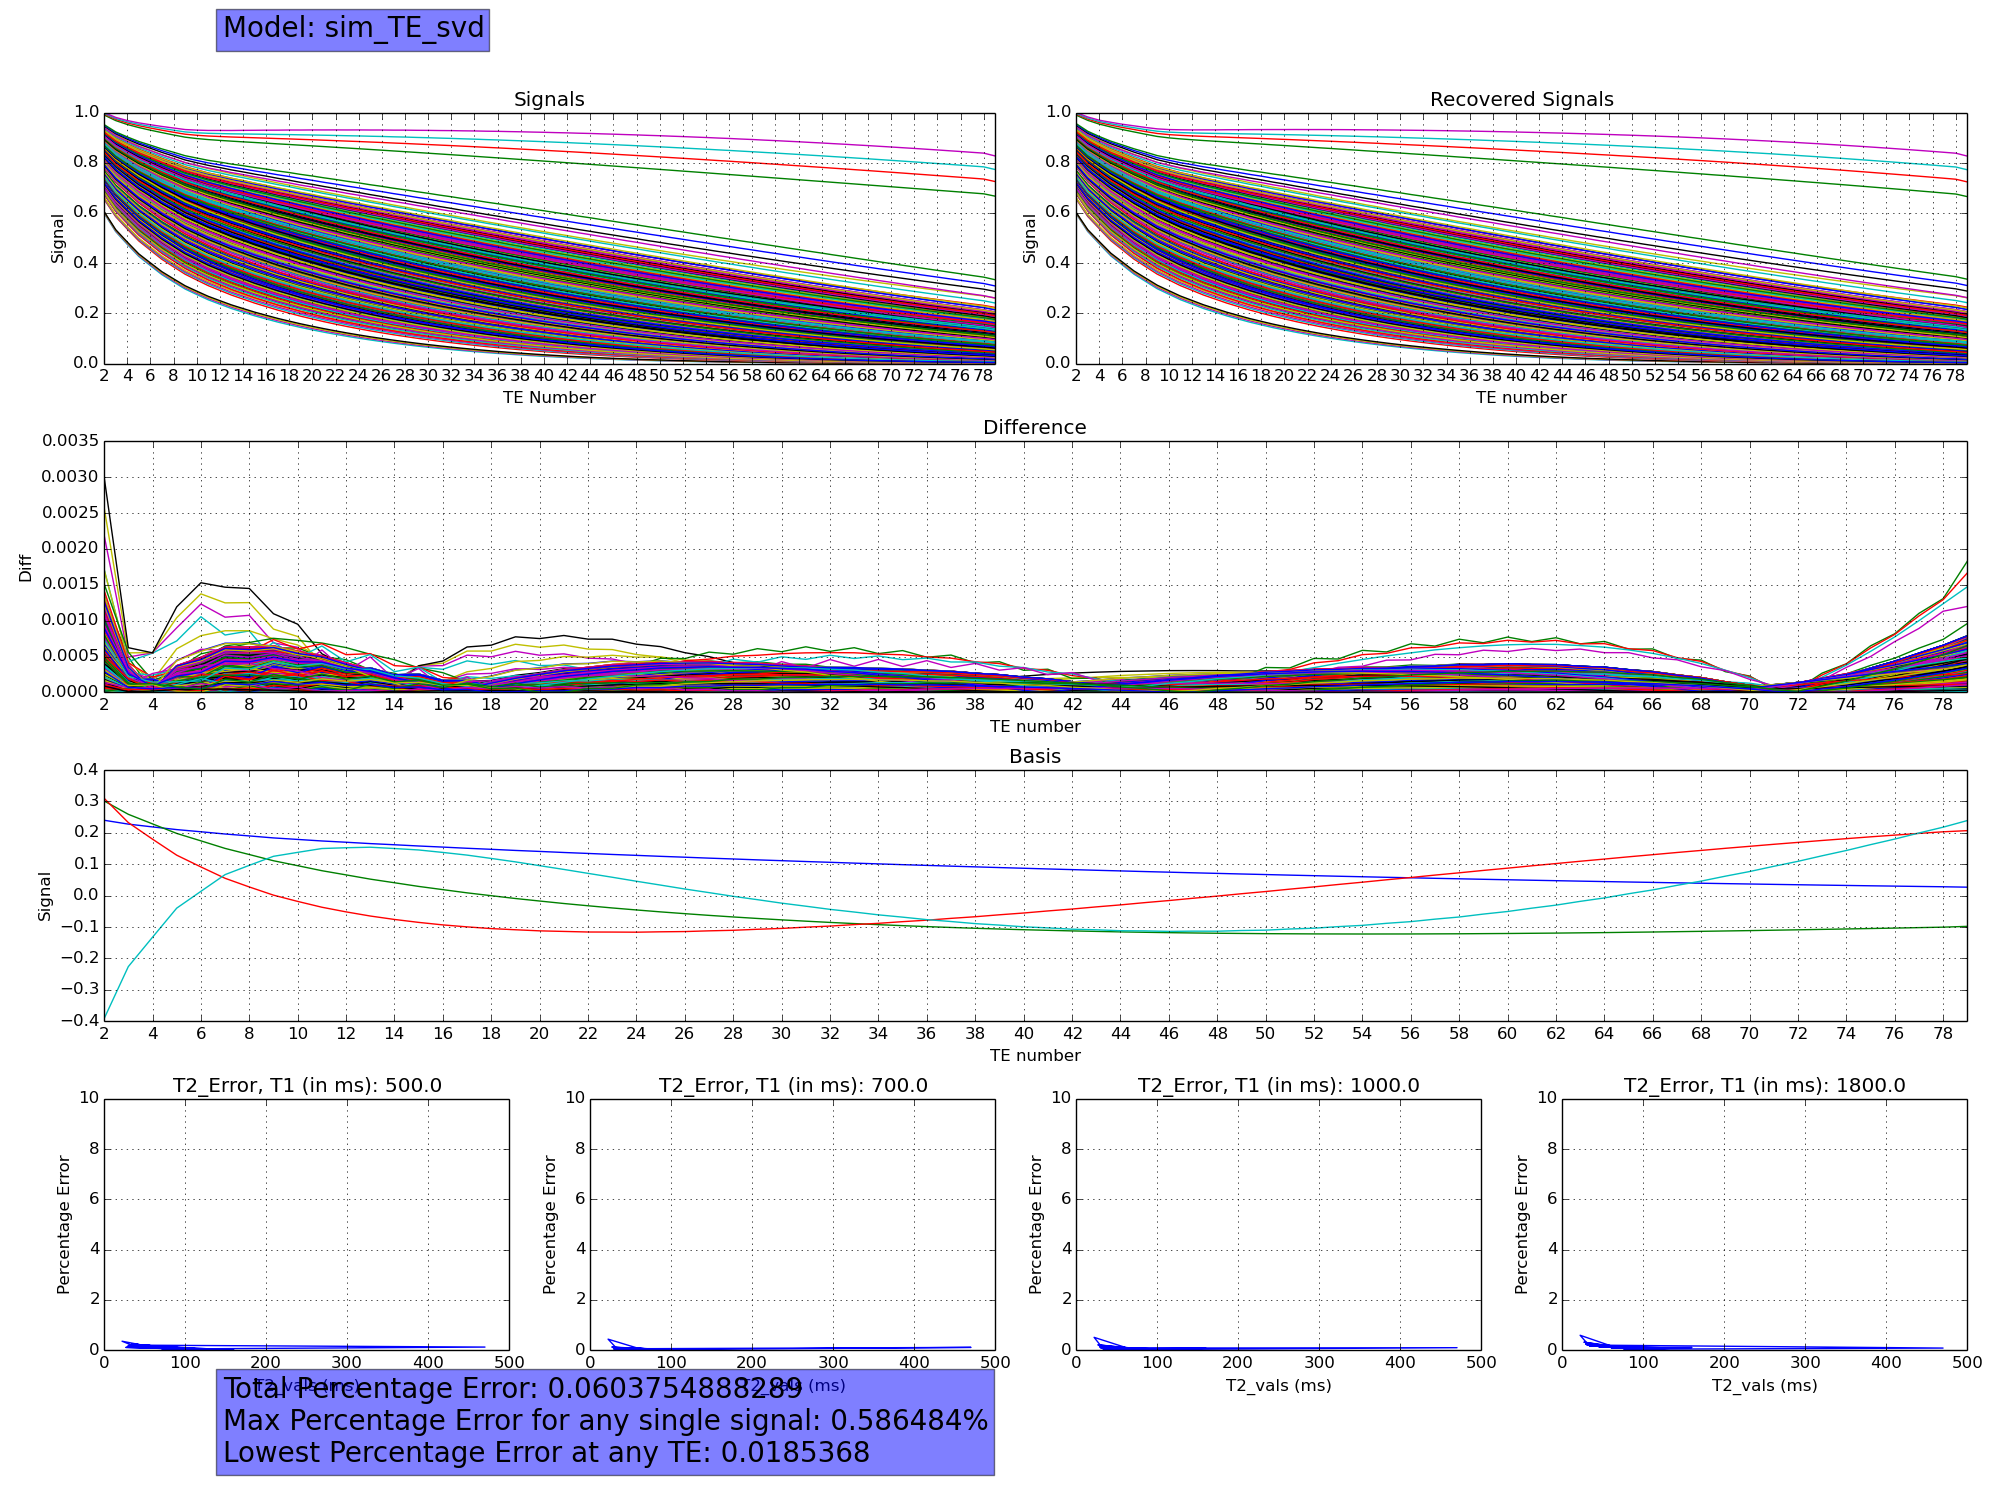
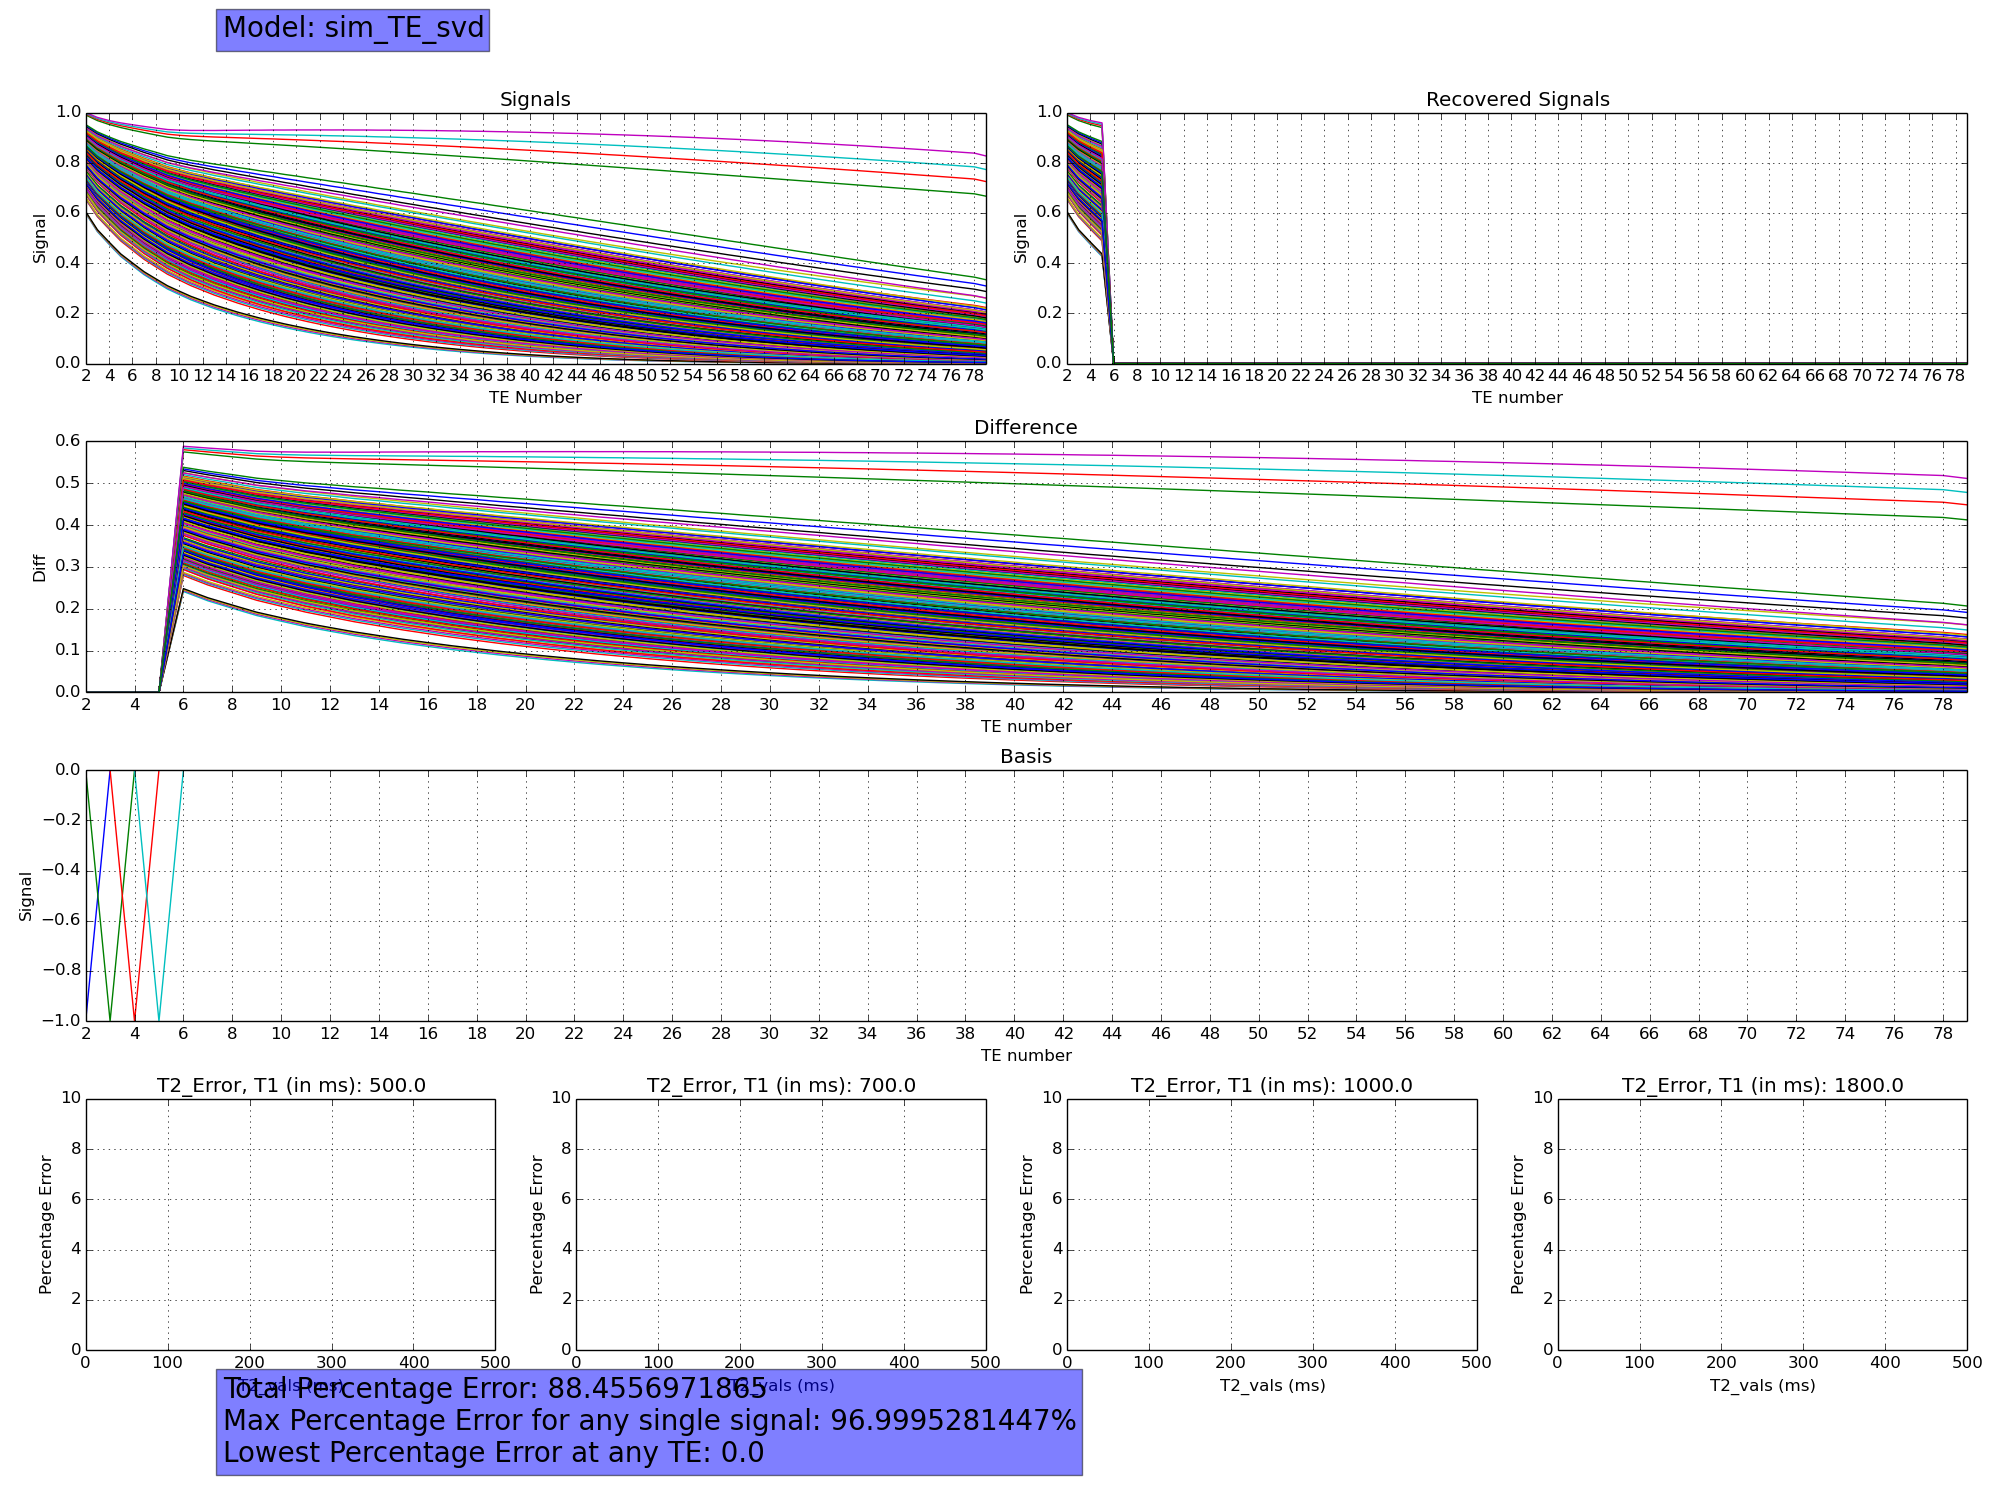
started working on no_err_low_TE methods

diff --git a/src/regressors.py b/src/regressors.py
@@ -63,13 +63,15 @@ class Multilayer_Regressor(Regressor, skl.base.RegressorMixin):
     """ This saves the theta_lst as an npy """
     np.save(path, np.array(self.theta_lst)) 
 
-  def train(self, X, y, alpha=None, num_iter=100, lmbda=0, verbose=False):
+  def train(self, X, y, alpha=None, num_iter=100, lmbda=0, feature_selection=None, verbose=False):
     c = [self.score(X, y)]
     m, n = X.shape
+    if type(feature_selection) is type(None):
+      assert len(feature_selection) == y.shape[0]
     if verbose:
       print "Init score: %f" % c[-1]
     for i in range(num_iter):
-      grad = self.theta_gradients(X, y)
+      grad = self.theta_gradients(X, y, feature_selection)
       k = len(self.theta_lst)
       for j in range(k):
         self.theta_lst[j] -= (grad[j] + (lmbda/n) * self.theta_lst[j])
@@ -90,12 +92,15 @@ class Multilayer_Regressor(Regressor, skl.base.RegressorMixin):
       activation_layers.append(np.dot(theta, activation_layers[-1]))
     return activation_layers
 
-  def theta_gradients(self, X, y):
+  def theta_gradients(self, X, y, feature_selection):
     act = self.get_activation_layers(X)
     delta = - (y - act.pop());
+    alpha = None
+    if type(feature_selection) is not type(None):
+      #alpha = 1/norm(feature_selection, ord=2)**2
+      delta = np.dot(np.diag(feature_selection), delta) 
     grad = []
     past_theta = None
-    alpha = None
     for theta in self.theta_lst[::-1]:
       a = act.pop()
       if past_theta is None:
@@ -132,7 +137,7 @@ class Multilayer_Logistic_Regressor(Regressor, skl.base.ClassifierMixin):
     """ This saves the theta_lst as an npy """
     np.save(path, np.array(self.theta_lst))
 
-  def train(self, X, y, alpha, num_iter=100, lmbda=0, verbose=False):
+  def train(self, X, y, alpha, num_iter=100, lmbda=0, feature_selection=None, verbose=False):
     c = [self.score(X, y)]
     m, n = X.shape
     if verbose:

diff --git a/src/models.py b/src/models.py
@@ -304,6 +304,29 @@ def reg_svd_sq(X, k=None, rvc=None):
 
 models_dict["reg_svd_sq"] = reg_svd_sq
 
+def low_TE_nn(X, k=None, rvc=None):
+  if k is None:
+    k = 3
+  U = svd(X)
+  nn = mr([0, 0, 0])
+  nn.theta_lst[0] = inv(U)[:k, :]
+  nn.theta_lst[1] = U[:, :k]
+
+  feature_select = np.linspace(0, 1, X.shape[0])[::-1]**1e10
+
+  c = nn.train(X, X, feature_selection=feature_select, num_iter=5000, verbose=True)
+  U = rvc_U(nn.theta_lst[-1], rvc)
+  alpha = compute_alpha(X, U, rvc)
+  return U, alpha, np.dot(U[:, :k], alpha[:k])
+
+models_dict["low_TE_nn"] = low_TE_nn
 
 
+def TE_svd(X, k=None, rvc=None):
+  fs = np.diag(np.linspace(0, 1, X.shape[0])[::-1]**1e10)
+  Xt = np.dot(fs, X)
+  U = rvc_U(svd(Xt), rvc)
+  alpha = compute_alpha(X, U, rvc)
+  return U, alpha, np.dot(U[:, :k], alpha[:k])
+  
 models_dict["TE_svd"] = TE_svd
